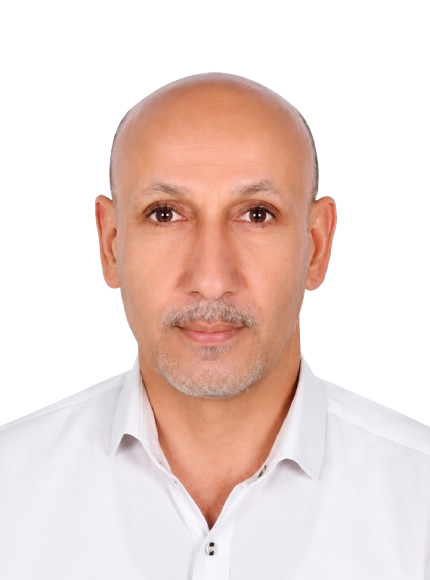
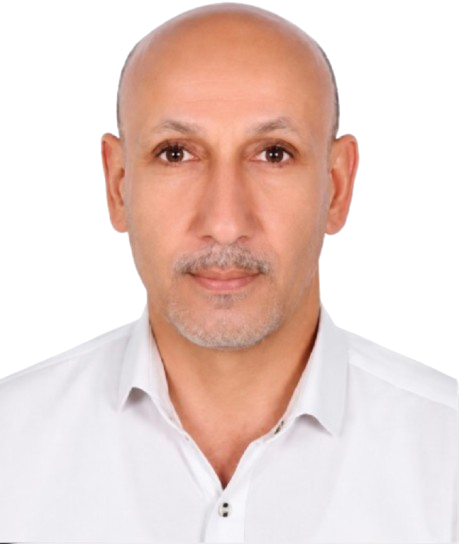
push

Changed region(s): [[0.0, 0.0, 0.8465, 0.9688], [0.8465, 0.6562, 0.9977, 0.75], [0.0, 0.9688, 0.0302, 1.0]]

diff --git a/pheladelfia.html b/pheladelfia.html
@@ -318,9 +318,10 @@
       }
 
       .portrait {
-        width: 56%;
-        aspect-ratio: 1 / 0.84;
-        flex: 0 0 auto;
+        width: 48%;
+        max-height: 210px;
+        aspect-ratio: 430 / 580;
+        flex: 0 1 auto;
         display: grid;
         place-items: center;
         overflow: hidden;
@@ -333,8 +334,8 @@
         width: 100%;
         height: 100%;
         display: block;
-        object-fit: cover;
-        object-position: 50% 22%;
+        object-fit: contain;
+        object-position: center center;
       }
 
       .portrait svg {
@@ -360,7 +361,7 @@
 
       .employee-en {
         color: #171918;
-        font-size: clamp(17px, 5.2vw, 21px);
+        font-size: clamp(15px, 4.6vw, 18px);
         font-weight: 800;
       }
 
@@ -385,6 +386,16 @@
         color: #37433a;
         font-size: clamp(15px, 4.3vw, 18px);
         font-weight: 700;
+      }
+
+      .contact-en {
+        margin-top: 6px;
+        color: #5a675e;
+        font-family: Inter, Arial, sans-serif;
+        font-size: clamp(11px, 3.2vw, 12px);
+        font-weight: 600;
+        letter-spacing: 0.01em;
+        direction: ltr;
       }
 
       .footer {
@@ -473,9 +484,9 @@
         z-index: 1;
         color: #fff;
         font-family: Inter, Arial, sans-serif;
-        font-size: clamp(20px, 5.5vw, 23px);
+        font-size: clamp(16px, 4.6vw, 19px);
         font-weight: 700;
-        letter-spacing: 0.06em;
+        letter-spacing: 0.04em;
         direction: ltr;
       }
 
@@ -649,17 +660,17 @@
               <div class="brand-divider" aria-hidden="true"></div>
 
               <div class="portrait">
-                <img src="hero.png" alt="John Doe" />
+                <img src="hero.png" alt="Mohamed ABDALGHANI" />
               </div>
 
               <div class="employee">
-                <div class="employee-en" lang="en">John Doe</div>
+                <div class="employee-en" lang="en">Mohamed ABDALGHANI</div>
               </div>
 
               <div class="divider" aria-hidden="true"></div>
 
               <div class="job">
-                <div class="job-en" lang="en">HR Manager</div>
+                <div class="job-en" lang="en">Manager &amp; Partner</div>
               </div>
 
               <div class="footer">
@@ -689,11 +700,11 @@
                 <img class="footer-leaf" src="leaf-mark.png?v=6" alt="" />
                 <div class="bottom">
                   <div class="employee-number">
-                    <div class="employee-label-en" lang="en">Emp. No.</div>
+                    <div class="employee-label-en" lang="en">Mobile</div>
                   </div>
                   <div class="number-separator" aria-hidden="true"></div>
                   <div class="employee-id">
-                    <div class="number">12345</div>
+                    <div class="number">0506670263</div>
                   </div>
                 </div>
               </div>
